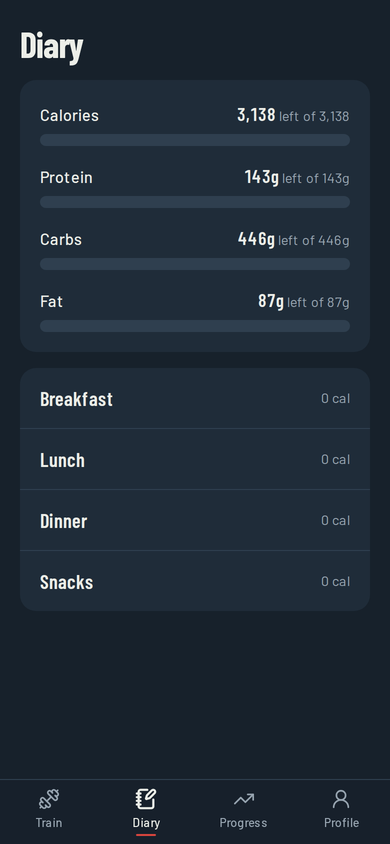
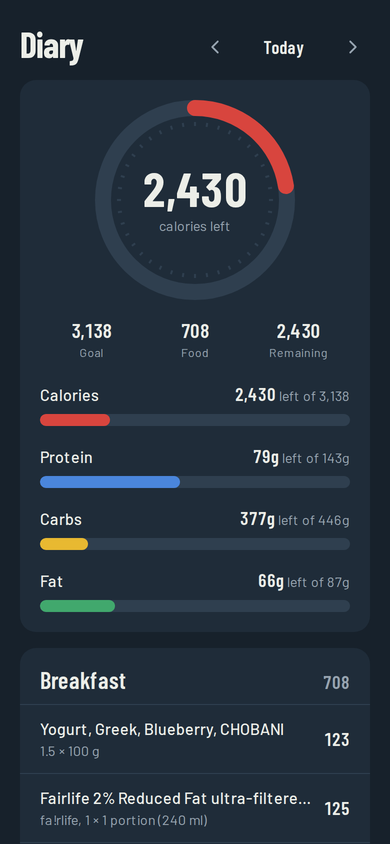
Update README, screenshots, and env example

diff --git a/README.md b/README.md
@@ -6,9 +6,13 @@ training and eating work from the same numbers.
 
 [Live demo](https://calorness.vercel.app). Try it with the demo account, no sign-up needed
 
-| Landing | Train | Profile | Diary |
+| Train | Live workout | Workout summary | Progress |
 | --- | --- | --- | --- |
-| ![Landing page](docs/screenshots/landing.png) | ![Train tab](docs/screenshots/train.png) | ![Goal setup](docs/screenshots/profile.png) | ![Diary with macro targets](docs/screenshots/diary.png) |
+| ![Train tab with weekly plates](docs/screenshots/train.png) | ![Live workout logger with rest timer](docs/screenshots/workout.png) | ![Workout summary with personal records](docs/screenshots/summary.png) | ![Muscle map and weekly volume](docs/screenshots/progress.png) |
+
+| Food diary | Adding a food | Barcode scanner | Exercise detail |
+| --- | --- | --- | --- |
+| ![Diary with calorie ring, macros, and meals](docs/screenshots/diary.png) | ![Food search with amount and macro split](docs/screenshots/add-food.png) | ![Barcode scanner](docs/screenshots/scan.png) | ![Exercise page with 1RM chart](docs/screenshots/exercise.png) |
 
 ## Why I built it
 
@@ -21,21 +25,43 @@ tracking that shares data with training.
 
 ## Features
 
-**Working now**
-- Sign in with GitHub, Google, or a shared demo account
+**Training (Hevy-style)**
+- Exercise library of 876 exercises with photos, instructions, and muscle groups, searchable and filterable
+- Routine builder: sets, rep ranges, and rest time per exercise
+- Live workout logger: previous-session values on every set, warm-up/drop/failure sets, autosave if the app closes mid-workout
+- Rest timer that starts when you check off a set, with ±15s and vibration
+- Automatic personal records: heaviest weight, best estimated 1RM, best set volume
+- Exercise pages with your history and an estimated-1RM progress chart
+
+**Progress**
+- Muscle map: sets per muscle over the last 7 days, front and back
+- Weekly volume for the last 8 weeks, best lifts, bodyweight trend
+- Calories eaten over the last 7 days against your goal
+
+**Nutrition (MyFitnessPal-style)**
+- Food search across USDA FoodData Central (generic and branded foods) and Open Food Facts, plus your own foods
+- Barcode scanning with the phone camera (native BarcodeDetector, with a WebAssembly fallback for iPhone)
+- Log by servings or by grams/ml, with a live calorie count and macro split
+- Daily diary by meal with a calorie ring and macro bars; tap any entry to edit or delete it
+- Recent foods, custom foods (with barcodes that scan next time), and copy a meal from yesterday
+- Water tracking by the glass
+- Training-day callout in the diary when you worked out, linking to that workout
 - Calorie and macro targets calculated from your stats (Mifflin–St Jeor + activity level + goal)
-- Daily diary showing remaining calories, protein, carbs, and fat
+
+**General**
+- Sign in with GitHub, Google, or a shared demo account
 - Pounds/feet or kilograms/centimeters
 - Installable to your phone's home screen (PWA)
 
 **Roadmap**
-- [ ] Exercise library (800+ exercises) and custom exercises
-- [ ] Routines, live workout logging, rest timer, supersets, previous-set values
-- [ ] Automatic personal records (heaviest weight, estimated 1RM, best set volume)
-- [ ] Food search (USDA FoodData Central) and barcode scanning (Open Food Facts)
-- [ ] Recent/frequent foods, custom foods, recipes, water tracking
-- [ ] Progress charts: strength, bodyweight, weekly muscle volume
+- [x] Exercise library, routines, live workout logging, rest timer, PRs
+- [x] Progress charts: muscle map, weekly volume, best lifts, bodyweight
+- [x] Food search (USDA + Open Food Facts), barcode scanning, custom foods, recent foods, water
+- [x] Calories vs. goal chart on the Progress tab
+- [ ] Recipes and saved meals
+- [ ] Custom exercises and supersets in the logger
 - [ ] Training-aware nutrition: targets that adapt to training volume and weight trend
+- [ ] Time zone setting (dates currently display in US Eastern)
 - [ ] Offline logging in the gym
 
 ## Tech stack
@@ -48,6 +74,7 @@ tracking that shares data with training.
 | Database | PostgreSQL (Neon) with Prisma ORM |
 | Auth | NextAuth (Auth.js) with GitHub/Google OAuth |
 | Validation | Zod |
+| Charts | Hand-built SVG components (no chart library) |
 | Testing | Vitest |
 | CI/CD | GitHub Actions, deployed on Vercel |
 
@@ -63,6 +90,8 @@ has its plate color everywhere it appears: red (25 kg) for calories, blue
 prisma/
   schema.prisma        Database tables: auth, training, nutrition, goals
   migrations/          SQL history, applied automatically on deploy
+  seed.mjs             Loads the exercise library (runs on every deploy, skips existing)
+  data/exercises.json  876 exercises from free-exercise-db (public domain)
 src/
   app/
     (app)/             Signed-in pages: train, diary, progress, profile
@@ -73,7 +102,9 @@ src/
   lib/
     auth.ts            Sign-in config + requireUser() access check
     db.ts              Prisma client
-    fitness/           Pure, tested logic: 1RM, volume, PRs, BMR/TDEE, macros, units
+    training.ts        Training queries: workouts, previous sets, records, progress
+    nutrition/         Food APIs (USDA, Open Food Facts), normalizing their data, diary queries
+    fitness/           Pure, tested logic: 1RM, volume, PRs, BMR/TDEE, macros, units, muscles, dates
 ```
 
 All data is stored in metric; the UI converts to the user's units.
@@ -89,6 +120,7 @@ cd calorness
 npm install
 cp .env.example .env      # then fill in the values
 npm run db:migrate        # create the tables
+npm run db:seed           # load the exercise library
 npm run dev               # http://localhost:3000
 ```
 
@@ -100,3 +132,9 @@ npm run dev               # http://localhost:3000
 | `npm run lint` | Lint the code |
 | `npm run db:migrate` | Create a migration after editing `schema.prisma` |
 | `npm run db:studio` | Browse the database in a GUI |
+
+## Credits
+
+Food data: [USDA FoodData Central](https://fdc.nal.usda.gov/) (public domain) and [Open Food Facts](https://world.openfoodfacts.org/) (Open Database License).
+
+Exercise data and photos: [free-exercise-db](https://github.com/yuhonas/free-exercise-db) by yuhonas, released into the public domain under the Unlicense.
